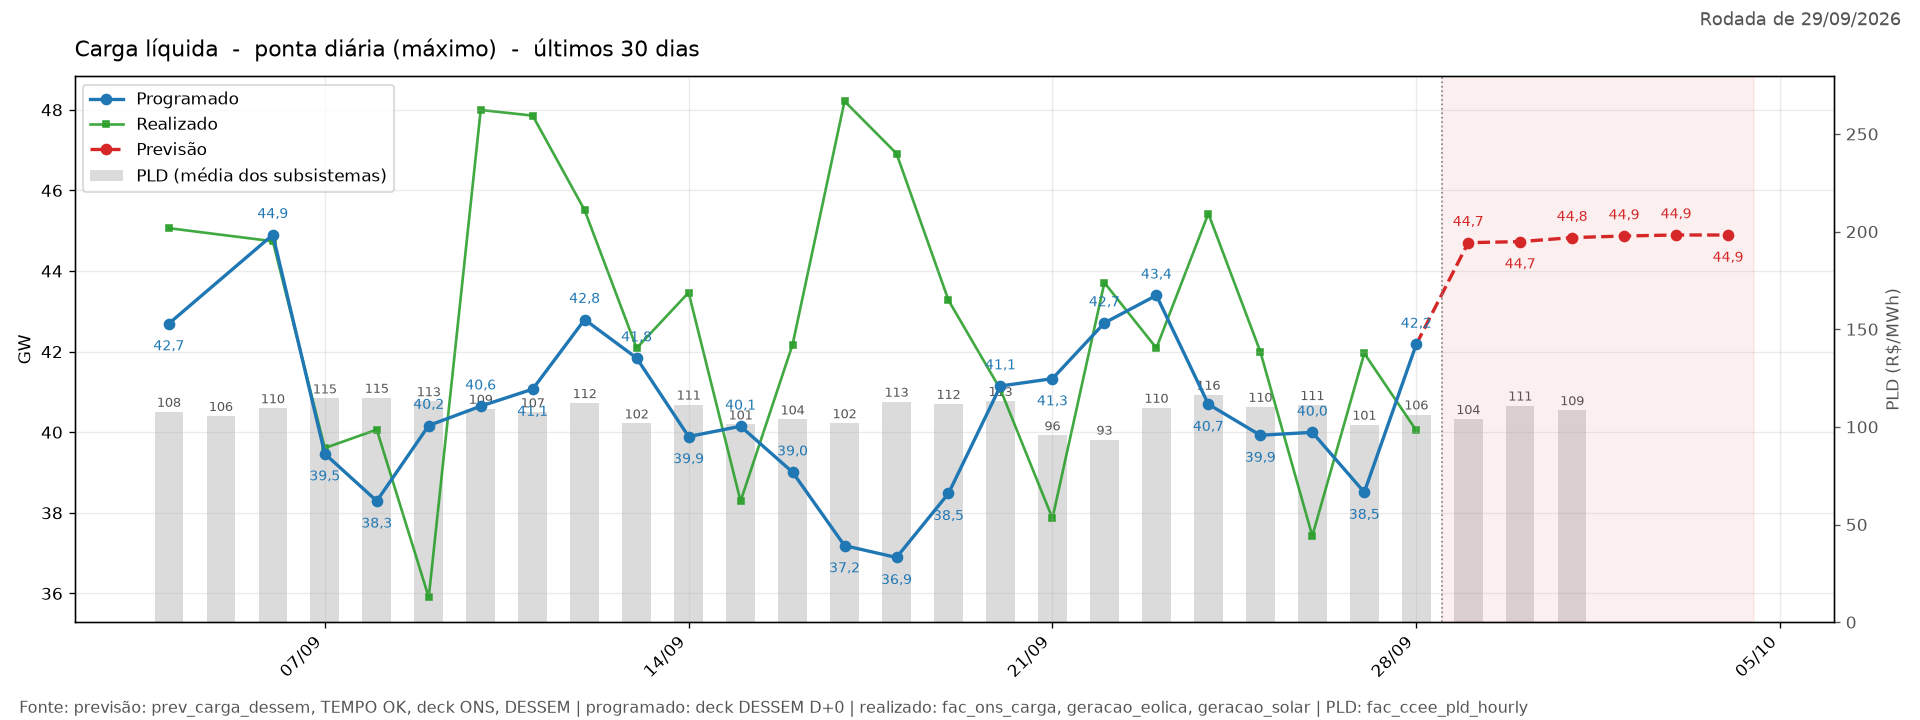
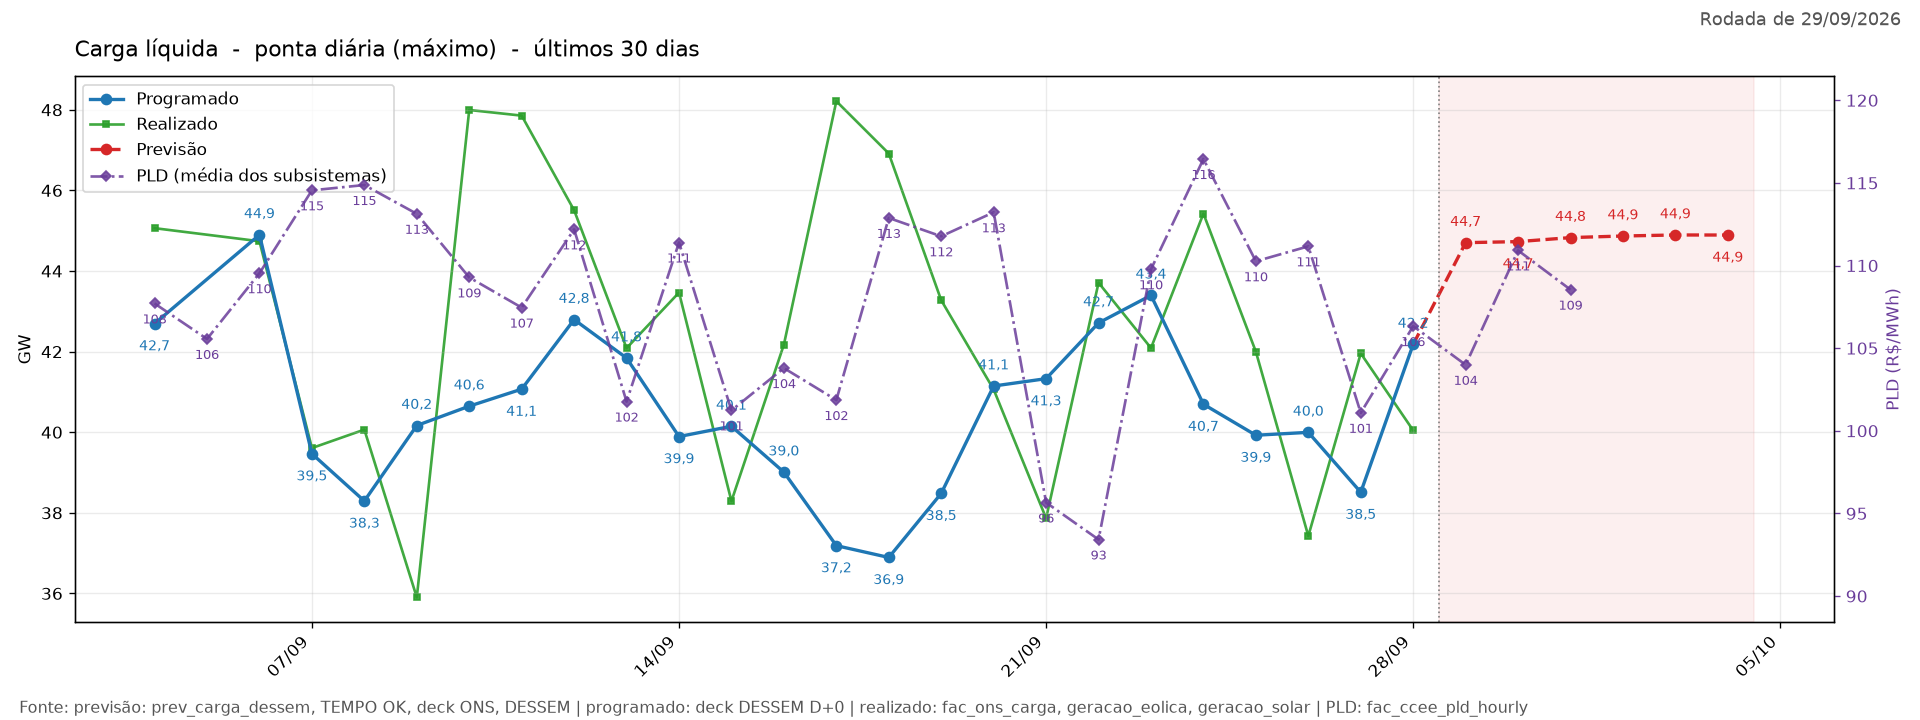
Relatório: PLD como linha no eixo auxiliar da ponta, escala apertada à faixa do PLD
Claude-Session: https://claude.ai/code/session_01EieyYqarYbTsrV1z5SEHxJ

diff --git a/src/relatorio_carga_liquida.py b/src/relatorio_carga_liquida.py
@@ -49,7 +49,7 @@ TABELA_CARGA_REALIZADA = "fac_ons_carga"
 TABELA_CARGA_PROGRAMADA = "fac_sintegre_carga_dessem_hourly"   # carga do deck DESSEM (delta = antecedência em dias)
 TABELA_SOLAR_REALIZADA = "fac_ons_geracao_solar"
 TABELA_EOLICA_REALIZADA = "fac_ons_geracao_eolica"
-TABELA_PLD = None                              # PLD horário CCEE: "fac_ccee_pld_hourly" liga o eixo auxiliar na ponta; None = desligado
+TABELA_PLD = "fac_ccee_pld_hourly"          # PLD horário CCEE (sist: SE, SU, NE, N) no eixo auxiliar da ponta; None = desligado
 PLD_AGREGACAO = "media"                       # "media" = média diária das 24h; "ponta" = PLD na hora da ponta da carga líquida
 SUBS = ["SE", "S", "NE", "N", "SIN"]
 
@@ -259,12 +259,15 @@ def grafico_enxuto(x: pd.DataFrame, col: str, titulo: str, fonte: str, rod, arq:
     hs, ls = [h[i] for i in ordem], [l[i] for i in ordem]
     if pld is not None and not pld.empty:
         ax2 = ax.twinx()
-        ax2.bar(pld.index, pld.values, width=0.55, color="#7f7f7f", alpha=.28, label="PLD (média dos subsistemas)", zorder=0)
-        ax2.set_ylabel("PLD (R$/MWh)", color="#555"); ax2.tick_params(axis="y", colors="#555")
-        ax2.set_ylim(0, max(pld.max() * 2.4, 1))   # barras na metade inferior, sem cobrir as linhas
+        ax2.plot(pld.index, pld.values, color="#6a3d9a", lw=1.6, ls="-.", marker="D", ms=4, alpha=.85,
+                 label="PLD (média dos subsistemas)", zorder=1)
+        ax2.set_ylabel("PLD (R$/MWh)", color="#6a3d9a"); ax2.tick_params(axis="y", colors="#6a3d9a")
+        # eixo apertado em torno da faixa do PLD, para a variação acompanhar a da carga líquida
+        folga = max(0.15 * (pld.max() - pld.min()), 5)
+        ax2.set_ylim(pld.min() - folga, pld.max() + folga)
         for d, v in pld.items():
-            ax2.annotate(f"{v:.0f}", (d, v), textcoords="offset points", xytext=(0, 3), ha="center", fontsize=7.5, color="#555")
-        ax.set_zorder(ax2.get_zorder() + 1); ax.patch.set_visible(False)
+            ax2.annotate(f"{v:.0f}", (d, v), textcoords="offset points", xytext=(0, -12), ha="center", fontsize=7.5, color="#6a3d9a")
+        ax2.grid(False)
         h2, l2 = ax2.get_legend_handles_labels(); hs += h2; ls += l2
     ax.legend(hs, ls, loc="upper left", frameon=True)
     ax.xaxis.set_major_locator(mdates.WeekdayLocator(byweekday=0)); ax.xaxis.set_major_formatter(mdates.DateFormatter("%d/%m"))
